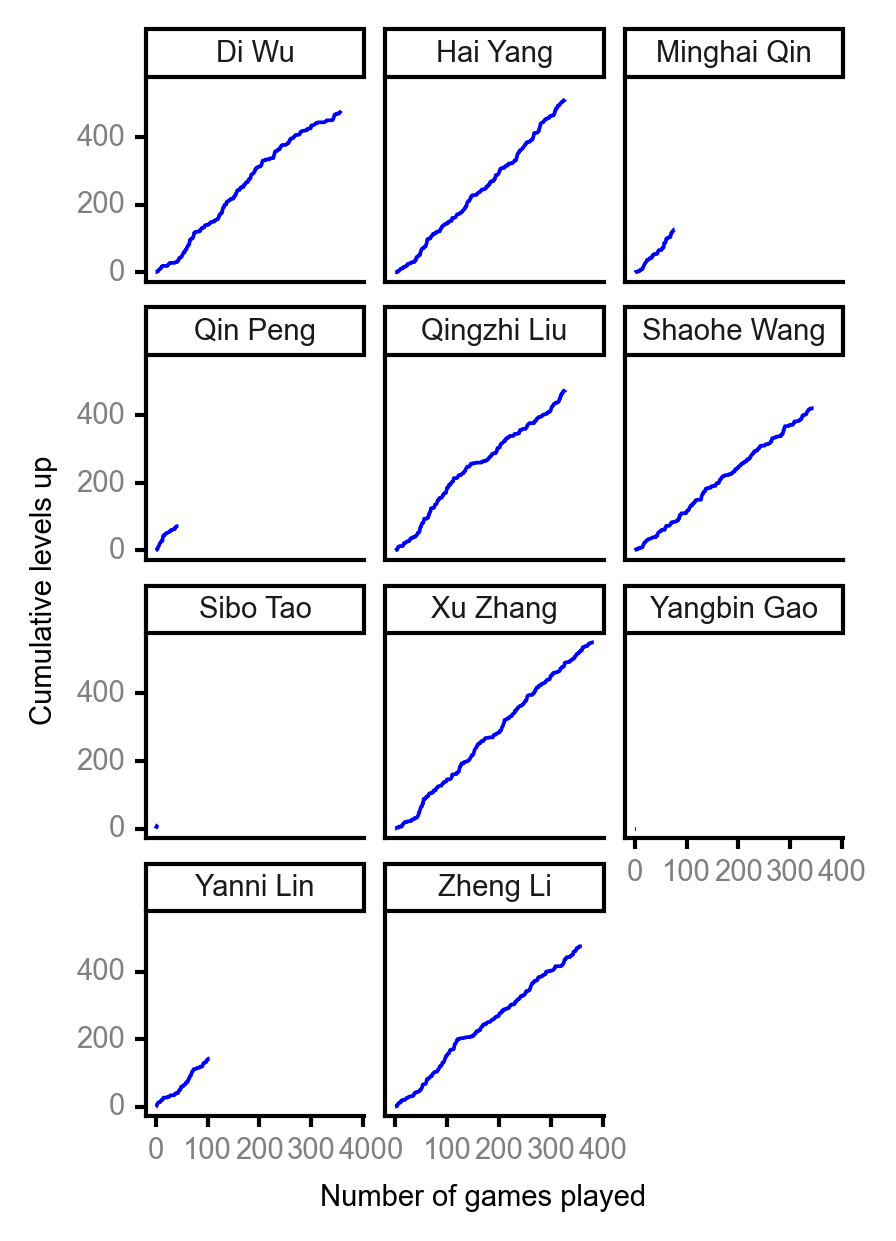
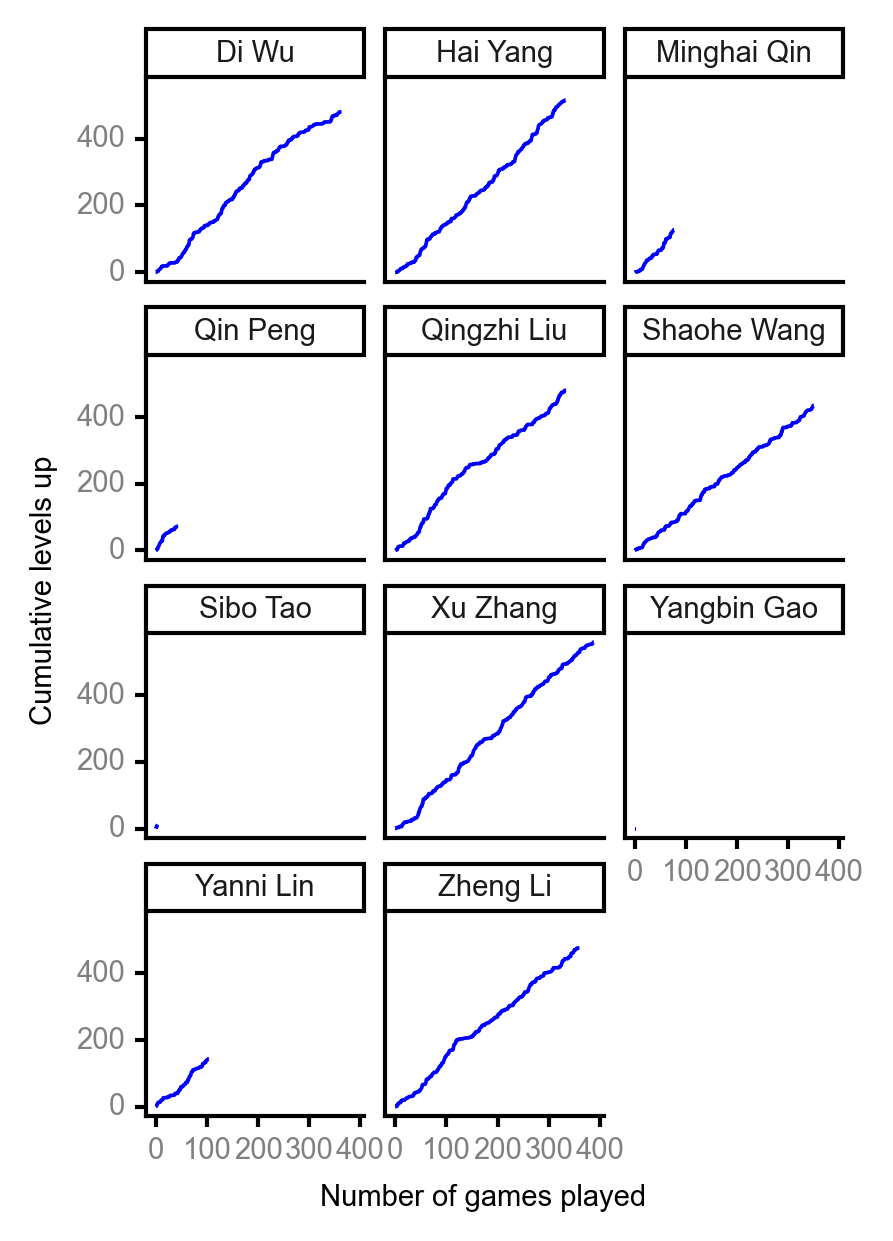
update player stats

diff --git a/player_stats.md b/player_stats.md
@@ -3,7 +3,7 @@ layout: player_stats
 title: Player Statistics
 author: Shaohe Wang
 author_url: https://scholar.google.com/citations?user=R_-kJV4AAAAJ&hl=en
-date: 2021-11-14
+date: 2021-11-25
 ---
 
 #### [Spreadsheet](https://docs.google.com/spreadsheets/d/1So3PBr9gV3I0LzApZOgJlQew2QjM1wAiWhR50rAnHRg/edit#gid=2137801449)
@@ -14,12 +14,12 @@ date: 2021-11-14
 
 | <br><br><br>Rank | <br><br><br>Player | <br> Lifetime <br> levels <br> up | <br><br> Winning <br> rate | <br> Average <br> levels <br> up | <br> Total <br> games <br> played | Games <br> played <br> as <br> MVP | Games <br> played <br> as <br> dealer | N_games <br> short <br> staffed <br> as dealer | Winning <br> rate <br> as <br> dealer |
 |:---:|:---:|:---:|:---:|:---:|:---:|:---:|:---:|:---:|:---:|
-| 1 | Xu <br> Zhang | 552 | 54.9% | 2.62 | 384 | 20 | 74 | 2 | 51.4% |
-| 2 | Hai <br> Yang | 512 | 53.8% | 2.89 | 329 | 26 | 65 | 3 | 58.5% |
-| 3 | Di <br> Wu | 480 | 47.6% | 2.80 | 359 | 35 | 59 | 0 | 52.5% |
+| 1 | Xu <br> Zhang | 558 | 55.0% | 2.61 | 389 | 20 | 75 | 2 | 50.7% |
+| 2 | Hai <br> Yang | 515 | 53.9% | 2.86 | 334 | 26 | 65 | 3 | 58.5% |
+| 3 | Di <br> Wu | 480 | 47.3% | 2.78 | 364 | 35 | 59 | 0 | 52.5% |
 | 4 | Zheng <br> Li | 479 | 51.5% | 2.56 | 361 | 15 | 58 | 1 | 53.4% |
-| 5 | Qingzhi <br> Liu | 475 | 50.9% | 2.82 | 330 | 16 | 58 | 4 | 46.6% |
-| 6 | Shaohe <br> Wang | 424 | 45.1% | 2.72 | 346 | 15 | 57 | 3 | 47.4% |
+| 5 | Qingzhi <br> Liu | 479 | 50.7% | 2.81 | 335 | 16 | 60 | 4 | 45.0% |
+| 6 | Shaohe <br> Wang | 434 | 45.6% | 2.71 | 351 | 15 | 59 | 3 | 49.2% |
 | 7 | Yanni <br> Lin | 144 | 47.6% | 2.88 | 105 | 10 | 11 | 2 | 36.4% |
 | 8 | Minghai <br> Qin | 127 | 52.6% | 3.10 | 78 | 1 | 11 | 1 | 72.7% |
 | 9 | Qin <br> Peng | 74 | 57.8% | 2.85 | 45 | 4 | 4 | 0 | 75.0% |
